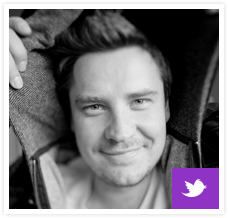
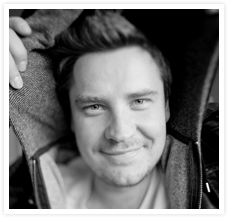
onreisze

Changed region(s): [[0.7368, 0.7706, 0.9825, 0.9633]]

diff --git a/css/style.css b/css/style.css
@@ -245,7 +245,7 @@
 .twitter-link{
   position:absolute;
   bottom:0%;
-  right:0%;
+  right:6%;
 }
 .slider-nav{
   position:relative;
@@ -345,7 +345,7 @@ left:50%;
 
 .social-menu ul li {
   float: left;
-  width:25%;
+  width:20%;
   list-style:none;
 }
 .social-menu ul li a{
@@ -402,12 +402,16 @@ left:50%;
   line-height: 3.417;
   text-align: left;
 }
+
 .footer-info span{
   font-size: 11px;
   font-family: "Helvetica";
   color: rgb(126, 126, 126);
   line-height: 1.909;
   text-align: left;
+}
+.footer-info{
+  padding-bottom:40px;
 }
 @media only screen and (max-width: 998px) {
 .container{
@@ -482,11 +486,13 @@ left:50%;
 .col-3-right{
   padding-left:16px;
   padding-right:16px;
+  padding-bottom:20px;
   width:100%;
 }
 .col-2-left{
 
   width:100%;
+  padding-bottom:20px;
 }
 .col-2-right{
   width:100%;
@@ -494,6 +500,7 @@ left:50%;
 .col-3-left{
     padding-left:16px;
   padding-right:16px;
+  padding-bottom:20px;
   width:100%;
 }
 .header-bottom{
@@ -530,8 +537,16 @@ left:50%;
 .col-4-right{
   width:51%;
   float:left;
+  margin-right:36px;
 }
-
+.footer-info{
+  padding-left:16px;
+  padding-right:16px;
+}
+.social-menu{
+  margin-top:10px;
+  margin-bottom:10px;
+}
 }
 
 
@@ -596,8 +611,12 @@ left:50%;
   width:100%;
 }
 .footer-links{
+  padding-top:40px;
   padding-left:16px;
   padding-right:16px;
+}
+.footer-links ul li a {
+  font-size:10px;
 }
 .description-2-left{
   width:100%;
@@ -645,10 +664,10 @@ left:50%;
   width:33.33%;
 }
 .colPic-2-left{
-  width:51%;
+  width:70%;
 }
 .colPic-2-right{
-  width:51%;
+  width:70%;
   float:left;
 }
 .col-4-left{
@@ -656,6 +675,20 @@ left:50%;
 }
 .col-4-right{
   width:100%;
+}
+.screen-container{
+  width:100%;
+}
+.screen-container img{
+  width:100%;
+}
+.footer-info{
+  padding-left:16px;
+  padding-right:16px;
+}
+.social-menu{
+  margin-top:10px;
+  margin-bottom:10px;
 }
 
 

diff --git a/index.html b/index.html
@@ -394,7 +394,7 @@ Built like a old fella no dramas grab us a ten clicks away.</p>
 					<li><a href="#">Contact</a></li>
 				</ul>
 			</div>
-			<div class="social-menu">
+			<div class="social-menu clearfix">
 				<ul>
 				<li><a href="#" class="twitter-footer">Twitter</a></li>
 				<li><a href="#" class="facebook-footer">Facebook</a></li>

diff --git a/js/carousel.js b/js/carousel.js
@@ -24,6 +24,9 @@ menuShow.addEventListener('click',function(){
 		show=!show;
 	}
 })
+window.onresize=function(){
+location.reload();
+}
 window.addEventListener("load",myCarousel);
 function myCarousel(){
 bodyWidth.style.width=objects.length*objects[0].clientWidth+'px';
